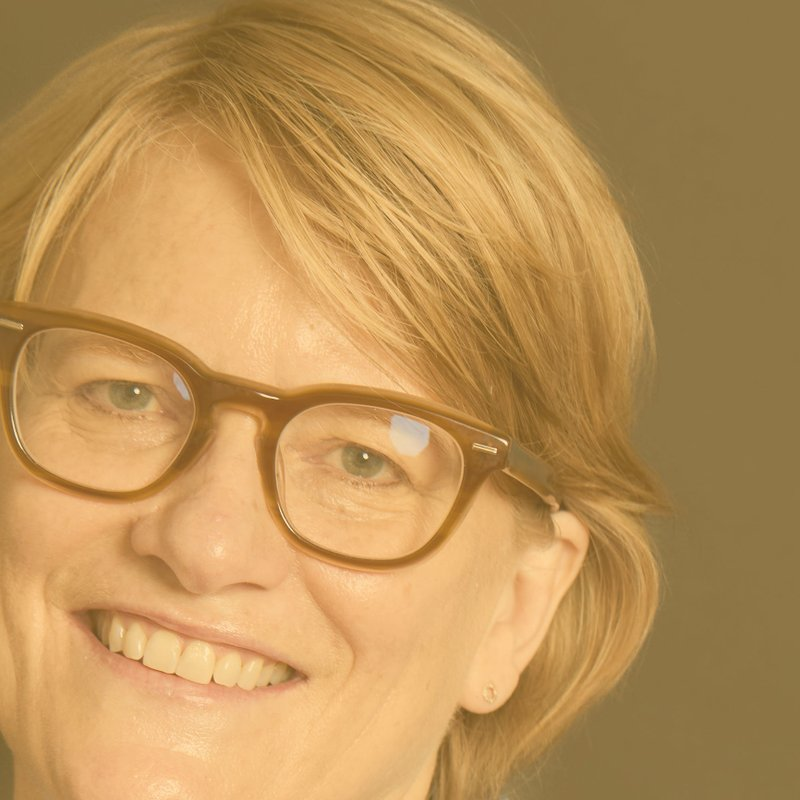
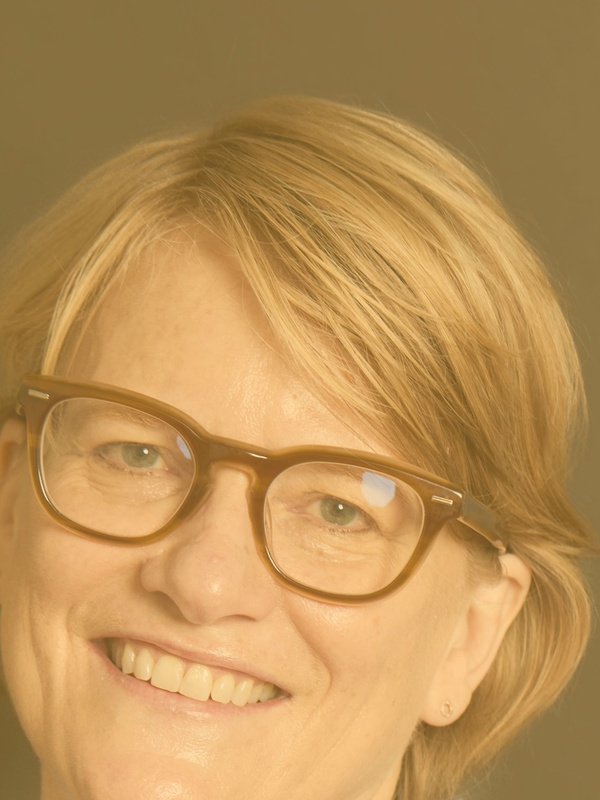
fix: reprocess portrait v3 with full head visible, 3:4 ratio

diff --git a/about/index.html b/about/index.html
@@ -53,7 +53,7 @@
           <p>People I work with are often navigating the lasting impact of earlier experiences, along with present challenges such as relationship issues, career transitions, and a search for deeper fulfillment. My approach is psychodynamic and relational, grounded in how trauma and unconscious patterns shape emotional life.</p>
         </div>
         <figure class="hero__image" style="margin-top: var(--space-4);">
-          <img src="/assets/images/dawn-eig-portrait-v3.jpg" alt="Dawn Eig, Licensed Psychoanalyst" loading="lazy" width="800" height="800">
+          <img src="/assets/images/dawn-eig-portrait-v3.jpg" alt="Dawn Eig, Licensed Psychoanalyst" loading="lazy" width="600" height="800">
         </figure>
       </div>
     </section>

diff --git a/index.html b/index.html
@@ -55,7 +55,7 @@
           </div>
         </div>
         <figure class="hero__image">
-          <img src="/assets/images/dawn-eig-portrait-v3.jpg" alt="Dawn Eig, Licensed Psychoanalyst" loading="eager" width="800" height="800">
+          <img src="/assets/images/dawn-eig-portrait-v3.jpg" alt="Dawn Eig, Licensed Psychoanalyst" loading="eager" width="600" height="800">
         </figure>
       </div>
     </section>

diff --git a/css/pages.css b/css/pages.css
@@ -53,7 +53,7 @@
 
 .hero__image img {
   width: 100%;
-  aspect-ratio: 1 / 1;
+  aspect-ratio: 3 / 4;
   object-fit: cover;
 }
 
